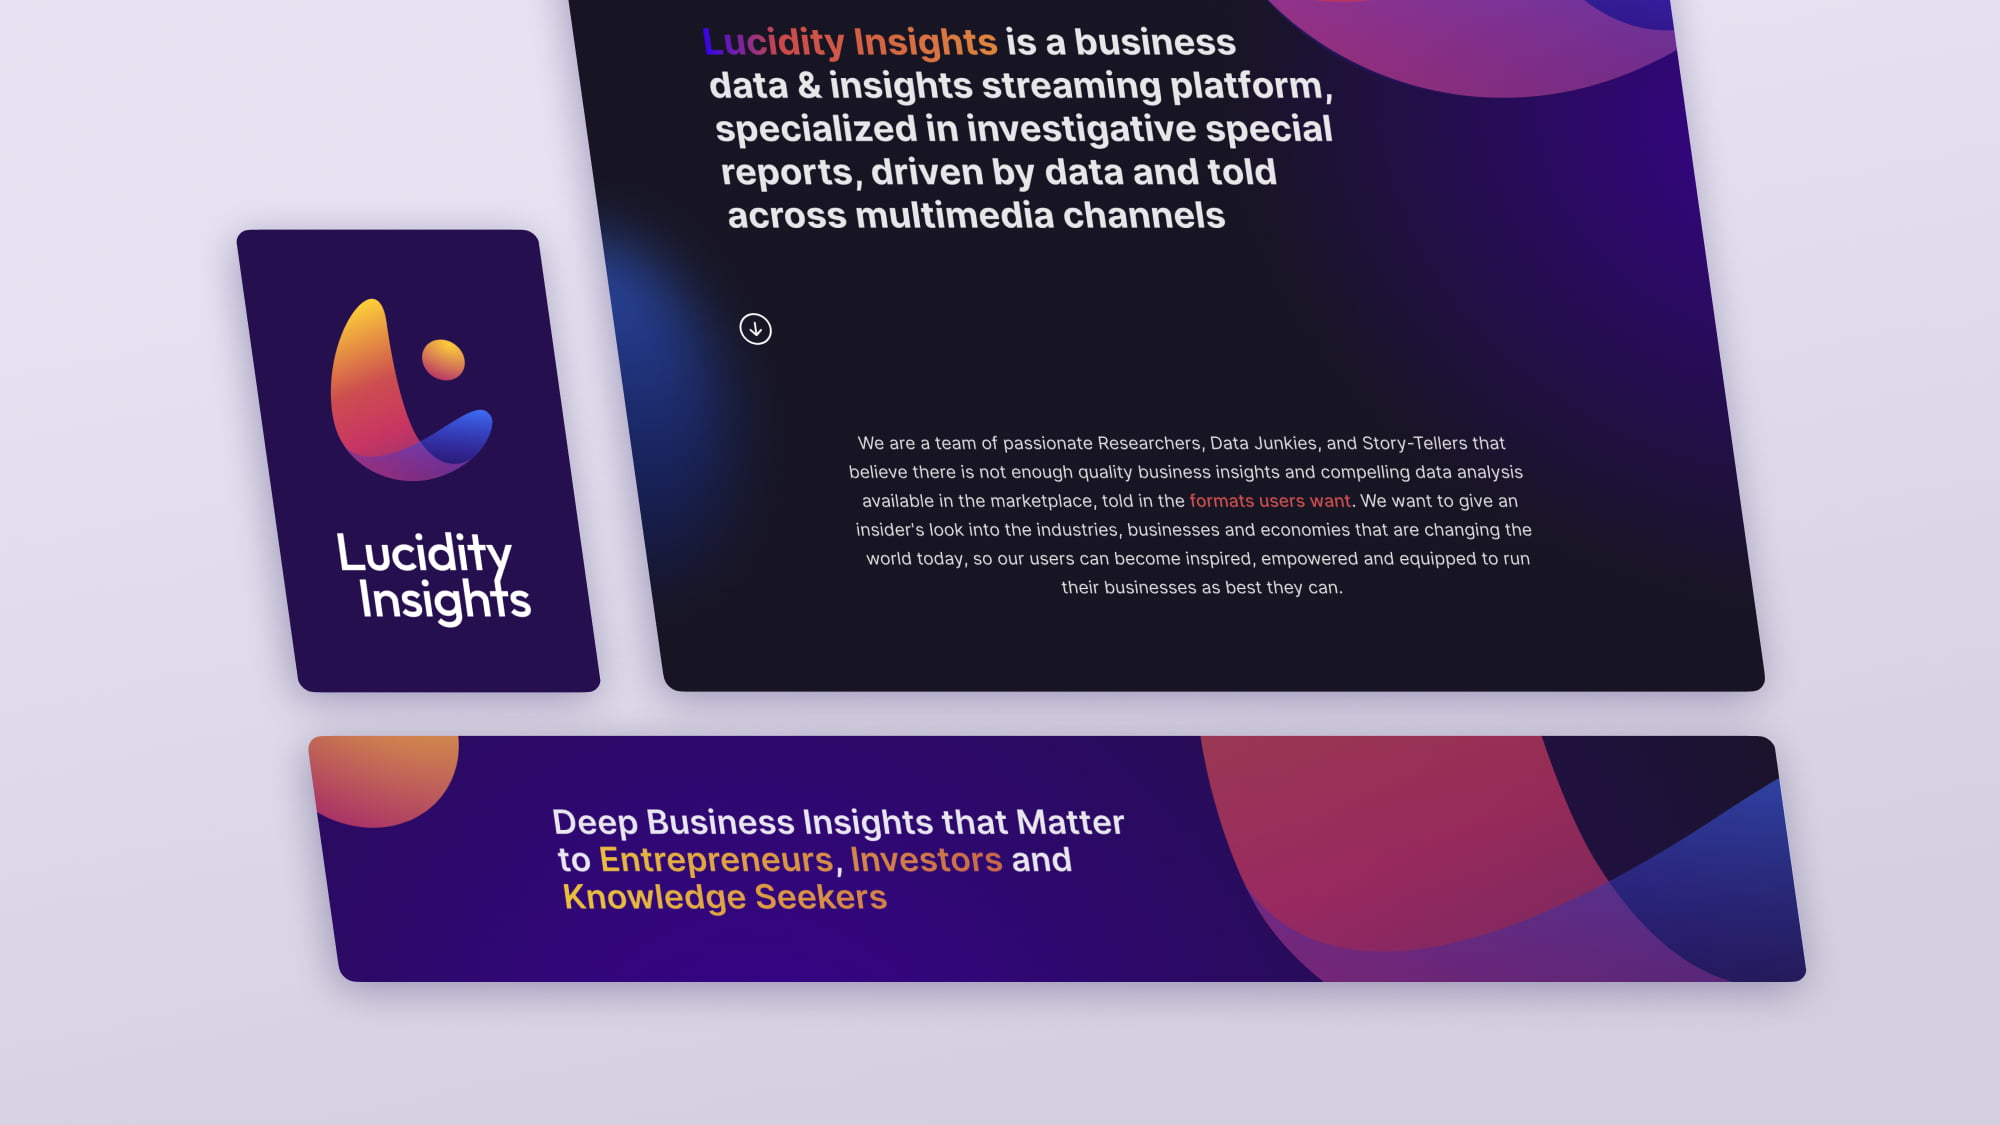
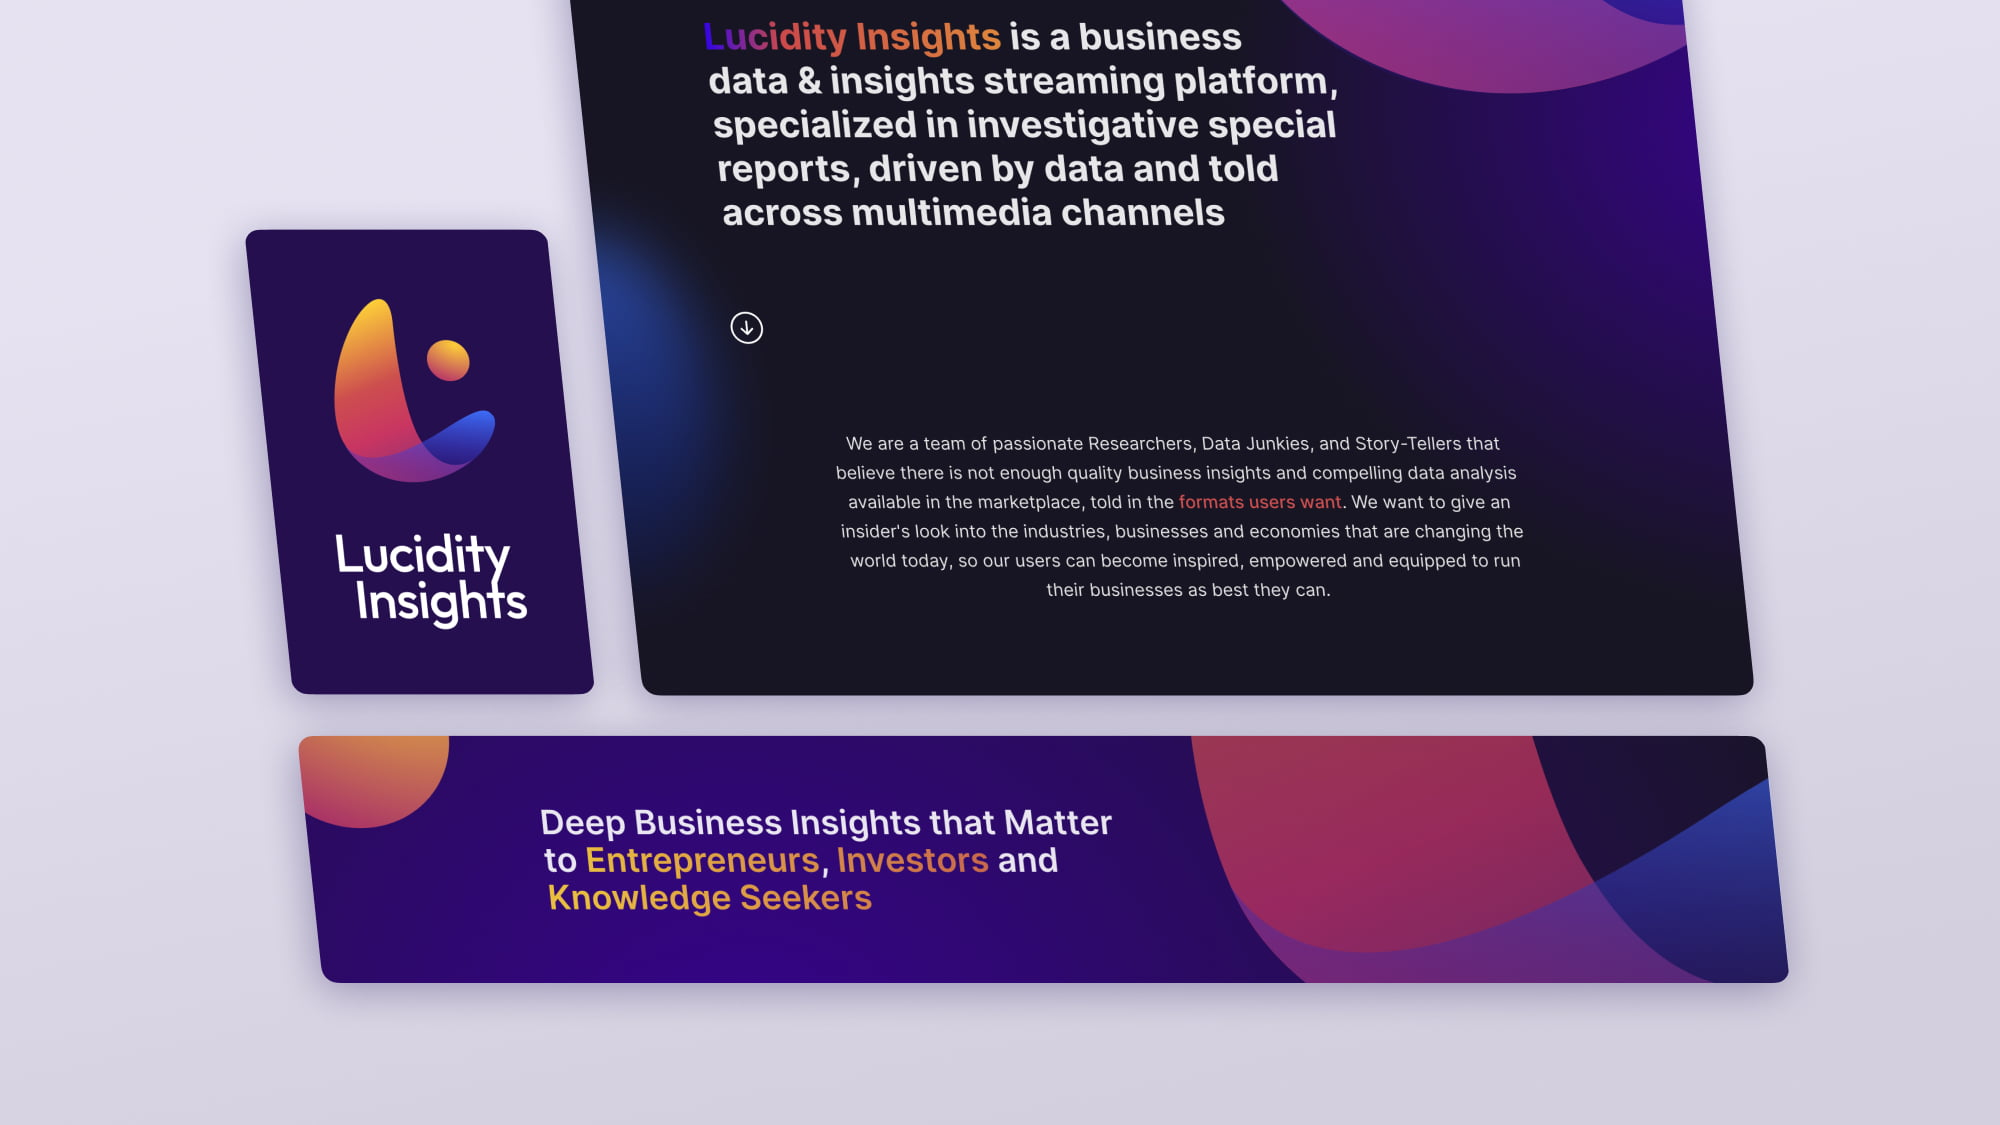
New image post for Eurogroup

diff --git a/src/lib/components/Header.svelte b/src/lib/components/Header.svelte
@@ -4,14 +4,14 @@
   <div
     class="flex items-center justify-between container mx-auto px-3 desktop:px-0"
   >
-    <div>
+    <a href="/">
       <div class="leading-none text-[12px] tablet:text-[13px] font-semibold">
         Radhea W. Putra
       </div>
       <div class="text-[11px] tablet:text-[12px]">
         Product Designer & Developer
       </div>
-    </div>
+    </a>
     <a
       href="mailto:[email redacted]"
       class="bg-black text-white font-avio font-semibold tracking-wider text-[9.5px] tablet:text-[10.5px] px-3 h-7 tablet:px-4 py-1 tablet:h-8 flex items-center leading-none outline-none hover:ring-4 hover:ring-black/15 transition duration-75 uppercase rounded-full"

diff --git a/src/lib/content/eurogroup-consulting.md b/src/lib/content/eurogroup-consulting.md
@@ -5,22 +5,28 @@ client: Eurogroup Consulting
 type: Web Design
 period: 2024
 description: Website redesign for a global management consultancy.
-image:
+image: /images/eurogroup-featured.jpg
 tags: website, UI/UX, mockup
 order: 5
 ---
 
 # {heading}
 
-`/images/eurogroup-featured.jpg`
+![Eurogroup Consulting featured image](/images/eurogroup-featured.jpg)
 
 Eurogroup Consulting is an international management consulting firm with offices across Europe and the Middle East. The project was a full redesign of the public website, aimed at giving the firm a digital presence that matches its positioning as a premium, strategy-led consultancy.
 
 The design direction leans on editorial clarity: structured layouts, refined typography, and a restrained palette that feels professional without being stiff. Navigation and content hierarchy were built to serve multiple audiences at once — potential clients, future talent, and partners — without overwhelming any of them.
 
-The site presents Eurogroup as a serious, high-caliber firm with a modern digital identity. The project has since evolved into a fresh design iteration that builds on this initial foundation.
+![Eurogroup Consulting image post 1](/images/eurogroup-post-1.jpg)
 
-`/images/eurogroup-detail.jpg`
+![Eurogroup Consulting image post 2](/images/eurogroup-post-2.jpg)
+
+![Eurogroup Consulting image post 3](/images/eurogroup-post-3.jpg)
+
+![Eurogroup Consulting image post 4](/images/eurogroup-post-4.jpg)
+
+The site presents Eurogroup as a serious, high-caliber firm with a modern digital identity. The project has since evolved into a fresh design iteration that builds on this initial foundation.
 
 **Client:** {client}  
 **Period:** {period}

diff --git a/src/lib/content/lucidity-insights.md b/src/lib/content/lucidity-insights.md
@@ -3,7 +3,7 @@ title: Lucidity Insights
 heading: Brand and website for Lucidity Insights
 client: Lucidity Insights
 type: branding, website, UI/UX
-period: 2024
+period: 2022
 description: Brand and website for a MEA startup intelligence platform.
 image: /images/lucidity-insights-featured.jpg
 tags: branding, website, UI/UX